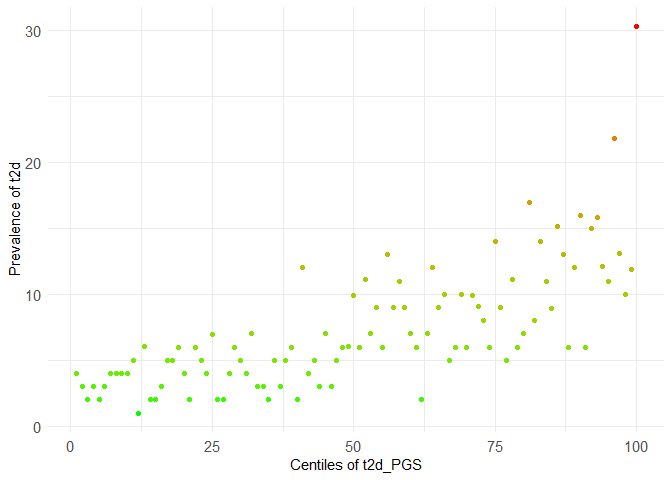
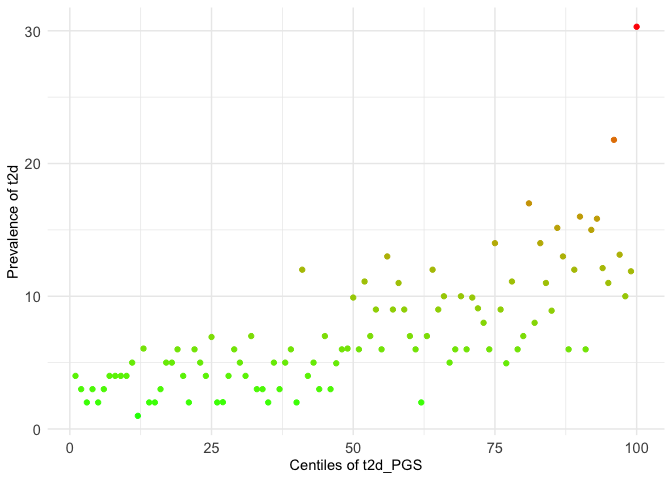
feat: add pkgdown and CI/CD

diff --git a/README.md b/README.md
@@ -8,6 +8,7 @@
 [![GitHub
 tag](https://img.shields.io/github/v/tag/VP-biostat/comorbidPGS.svg?label=latest%20version)](https://github.com/VP-biostat/comorbidPGS)
 [![CRAN_Status_Badge](https://www.r-pkg.org/badges/version/comorbidPGS)](https://cran.r-project.org/package=comorbidPGS)
+[![R-CMD-check](https://github.com/VP-biostat/comorbidPGS/actions/workflows/R-CMD-check.yaml/badge.svg)](https://github.com/VP-biostat/comorbidPGS/actions/workflows/R-CMD-check.yaml)
 <!-- badges: end -->
 
 comorbidPGS is a tool for analysing an already computed Polygenic Score
@@ -51,8 +52,8 @@ the example dataset:
 ``` r
 library(comorbidPGS)
 #> 
-#> Attachement du package : 'comorbidPGS'
-#> L'objet suivant est masqué depuis 'package:graphics':
+#> Attaching package: 'comorbidPGS'
+#> The following object is masked from 'package:graphics':
 #> 
 #>     assocplot
 
@@ -67,9 +68,9 @@ dataset <- comorbidData
 result_1 <- assoc(dataset, prs_col = "t2d_PGS", phenotype_col = "t2d")
 ```
 
-| PGS     | Phenotype | Phenotype_type | Statistical_method         | Covar | N_cases | N_controls |     N |   Effect | SE  | lower_CI | upper_CI | P_value |
-|:--------|:----------|:---------------|:---------------------------|:------|--------:|-----------:|------:|---------:|:----|---------:|---------:|--------:|
-| t2d_PGS | t2d       | Cases/Controls | Binary logistic regression | NA    |     730 |       9270 | 10000 | 1.688258 | NA  | 1.561821 | 1.824931 |       0 |
+| PGS | Phenotype | Phenotype_type | Statistical_method | Covar | N_cases | N_controls | N | Effect | SE | lower_CI | upper_CI | P_value |
+|:---|:---|:---|:---|:---|---:|---:|---:|---:|:---|---:|---:|---:|
+| t2d_PGS | t2d | Cases/Controls | Binary logistic regression | NA | 730 | 9270 | 10000 | 1.688258 | NA | 1.561821 | 1.824931 | 0 |
 
 ``` r
 # do multiple associations
@@ -77,27 +78,26 @@ assoc <- expand.grid(c("t2d_PGS", "ldl_PGS"), c("ethnicity","brc","t2d","log_ldl
 result_2 <- multiassoc(df = dataset, assoc_table = assoc, covar = c("age", "sex", "gen_array"))
 #> Warning in phenotype_type(df = df, phenotype_col = phenotype_col): Phenotype
 #> column log_ldl is continuous and not normal, please normalise prior association
-
 #> Warning in phenotype_type(df = df, phenotype_col = phenotype_col): Phenotype
 #> column log_ldl is continuous and not normal, please normalise prior association
 ```
 
-|     | PGS     | Phenotype       | Phenotype_type      | Statistical_method              | Covar             | N_cases | N_controls |     N |    Effect |        SE |  lower_CI |  upper_CI |   P_value |
-|:----|:--------|:----------------|:--------------------|:--------------------------------|:------------------|--------:|-----------:|------:|----------:|----------:|----------:|----------:|----------:|
-| 2   | t2d_PGS | ethnicity 1 ~ 2 | Categorical         | Multinomial logistic regression | age+sex+gen_array |    2142 |       6381 |  8523 | 0.9814174 |        NA | 0.9345150 | 1.0306739 | 0.4528020 |
-| 3   | t2d_PGS | ethnicity 1 ~ 3 | Categorical         | Multinomial logistic regression | age+sex+gen_array |    1205 |       6381 |  7586 | 1.0178971 |        NA | 0.9570931 | 1.0825640 | 0.5724292 |
-| 4   | t2d_PGS | ethnicity 1 ~ 4 | Categorical         | Multinomial logistic regression | age+sex+gen_array |     272 |       6381 |  6653 | 0.9434640 |        NA | 0.8355980 | 1.0652542 | 0.3474694 |
-| 21  | ldl_PGS | ethnicity 1 ~ 2 | Categorical         | Multinomial logistic regression | age+sex+gen_array |    2142 |       6381 |  8523 | 0.9925623 |        NA | 0.9451678 | 1.0423334 | 0.7648927 |
-| 31  | ldl_PGS | ethnicity 1 ~ 3 | Categorical         | Multinomial logistic regression | age+sex+gen_array |    1205 |       6381 |  7586 | 1.0083869 |        NA | 0.9481215 | 1.0724830 | 0.7905175 |
-| 41  | ldl_PGS | ethnicity 1 ~ 4 | Categorical         | Multinomial logistic regression | age+sex+gen_array |     272 |       6381 |  6653 | 0.9760204 |        NA | 0.8647226 | 1.1016433 | 0.6943783 |
-| 1   | t2d_PGS | brc             | Cases/Controls      | Binary logistic regression      | age+sex+gen_array |     402 |       5041 |  5443 | 1.0061678 |        NA | 0.9087543 | 1.1140235 | 0.9057882 |
-| 11  | ldl_PGS | brc             | Cases/Controls      | Binary logistic regression      | age+sex+gen_array |     402 |       5041 |  5443 | 1.1037106 |        NA | 0.9956370 | 1.2235153 | 0.0605407 |
-| 12  | t2d_PGS | t2d             | Cases/Controls      | Binary logistic regression      | age+sex+gen_array |     730 |       9270 | 10000 | 1.7359738 |        NA | 1.6029867 | 1.8799938 | 0.0000000 |
-| 13  | ldl_PGS | t2d             | Cases/Controls      | Binary logistic regression      | age+sex+gen_array |     730 |       9270 | 10000 | 0.9823272 |        NA | 0.9102411 | 1.0601223 | 0.6465580 |
-| 14  | t2d_PGS | log_ldl         | Continuous          | Linear regression               | age+sex+gen_array |      NA |         NA | 10000 | 0.0059961 | 0.0022747 | 0.0015378 | 0.0104544 | 0.0084010 |
-| 15  | ldl_PGS | log_ldl         | Continuous          | Linear regression               | age+sex+gen_array |      NA |         NA | 10000 | 0.0828545 | 0.0021183 | 0.0787027 | 0.0870064 | 0.0000000 |
-| 16  | t2d_PGS | sbp_cat         | Ordered Categorical | Ordinal logistic regression     | age+sex+gen_array |      NA |         NA | 10000 | 1.0628744 |        NA | 1.0236044 | 1.1036509 | 0.0015002 |
-| 17  | ldl_PGS | sbp_cat         | Ordered Categorical | Ordinal logistic regression     | age+sex+gen_array |      NA |         NA | 10000 | 1.0078855 |        NA | 0.9707330 | 1.0464598 | 0.6818849 |
+|  | PGS | Phenotype | Phenotype_type | Statistical_method | Covar | N_cases | N_controls | N | Effect | SE | lower_CI | upper_CI | P_value |
+|:---|:---|:---|:---|:---|:---|---:|---:|---:|---:|---:|---:|---:|---:|
+| 2 | t2d_PGS | ethnicity 1 ~ 2 | Categorical | Multinomial logistic regression | age+sex+gen_array | 2142 | 6381 | 8523 | 0.9814174 | NA | 0.9345150 | 1.0306739 | 0.4528020 |
+| 3 | t2d_PGS | ethnicity 1 ~ 3 | Categorical | Multinomial logistic regression | age+sex+gen_array | 1205 | 6381 | 7586 | 1.0178971 | NA | 0.9570931 | 1.0825640 | 0.5724292 |
+| 4 | t2d_PGS | ethnicity 1 ~ 4 | Categorical | Multinomial logistic regression | age+sex+gen_array | 272 | 6381 | 6653 | 0.9434640 | NA | 0.8355980 | 1.0652542 | 0.3474694 |
+| 21 | ldl_PGS | ethnicity 1 ~ 2 | Categorical | Multinomial logistic regression | age+sex+gen_array | 2142 | 6381 | 8523 | 0.9925623 | NA | 0.9451678 | 1.0423334 | 0.7648927 |
+| 31 | ldl_PGS | ethnicity 1 ~ 3 | Categorical | Multinomial logistic regression | age+sex+gen_array | 1205 | 6381 | 7586 | 1.0083869 | NA | 0.9481215 | 1.0724830 | 0.7905175 |
+| 41 | ldl_PGS | ethnicity 1 ~ 4 | Categorical | Multinomial logistic regression | age+sex+gen_array | 272 | 6381 | 6653 | 0.9760204 | NA | 0.8647226 | 1.1016433 | 0.6943783 |
+| 1 | t2d_PGS | brc | Cases/Controls | Binary logistic regression | age+sex+gen_array | 402 | 5041 | 5443 | 1.0061678 | NA | 0.9087543 | 1.1140235 | 0.9057882 |
+| 11 | ldl_PGS | brc | Cases/Controls | Binary logistic regression | age+sex+gen_array | 402 | 5041 | 5443 | 1.1037106 | NA | 0.9956370 | 1.2235153 | 0.0605407 |
+| 12 | t2d_PGS | t2d | Cases/Controls | Binary logistic regression | age+sex+gen_array | 730 | 9270 | 10000 | 1.7359738 | NA | 1.6029867 | 1.8799938 | 0.0000000 |
+| 13 | ldl_PGS | t2d | Cases/Controls | Binary logistic regression | age+sex+gen_array | 730 | 9270 | 10000 | 0.9823272 | NA | 0.9102411 | 1.0601223 | 0.6465580 |
+| 14 | t2d_PGS | log_ldl | Continuous | Linear regression | age+sex+gen_array | NA | NA | 10000 | 0.0059961 | 0.0022747 | 0.0015378 | 0.0104544 | 0.0084010 |
+| 15 | ldl_PGS | log_ldl | Continuous | Linear regression | age+sex+gen_array | NA | NA | 10000 | 0.0828545 | 0.0021183 | 0.0787027 | 0.0870064 | 0.0000000 |
+| 16 | t2d_PGS | sbp_cat | Ordered Categorical | Ordinal logistic regression | age+sex+gen_array | NA | NA | 10000 | 1.0628744 | NA | 1.0236044 | 1.1036509 | 0.0015002 |
+| 17 | ldl_PGS | sbp_cat | Ordered Categorical | Ordinal logistic regression | age+sex+gen_array | NA | NA | 10000 | 1.0078855 | NA | 0.9707330 | 1.0464598 | 0.6818849 |
 
 ### Examples of data visualisation using comorbidPGS
 
@@ -124,9 +124,9 @@ score_table should have the assoc() output format
 
 ``` r
 centileplot(dataset, prs_col = "brc_PGS", phenotype_col = "brc")
-#> Warning in centileplot(dataset, prs_col = "brc_PGS", phenotype_col = "brc"): The
-#> dataset has less than 10,000 individuals, centiles plot may not look good! Use
-#> the argument decile = TRUE to adapt to small datasets
+#> Warning in centileplot(dataset, prs_col = "brc_PGS", phenotype_col = "brc"):
+#> The dataset has less than 10,000 individuals, centiles plot may not look good!
+#> Use the argument decile = TRUE to adapt to small datasets
 ```
 
 <img src="man/figures/README-centileplot-1.png" width="100%" />
@@ -136,7 +136,6 @@ plot:
 
 ``` r
 library(ggplot2)
-#> Warning: le package 'ggplot2' a été compilé avec la version R 4.2.3
 centileplot(dataset, prs_col = "t2d_PGS", phenotype_col = "t2d") + 
   scale_color_gradient(low = "green", high = "red")
 ```
@@ -153,6 +152,7 @@ decileboxplot(dataset, prs_col = "ldl_PGS", phenotype_col = "ldl")
 
 To cite comorbidPGS in publications, please use:
 <p>
+
 Pascat V, Zudina L, Ulrich A, Maina JG, Kaakinen M, Pupko I, Bonnefond
 A, Demirkan A, Balkhiyarova Z, Froguel P, Prokopenko I (2024).
 “comorbidPGS: an R package assessing shared predisposition between
